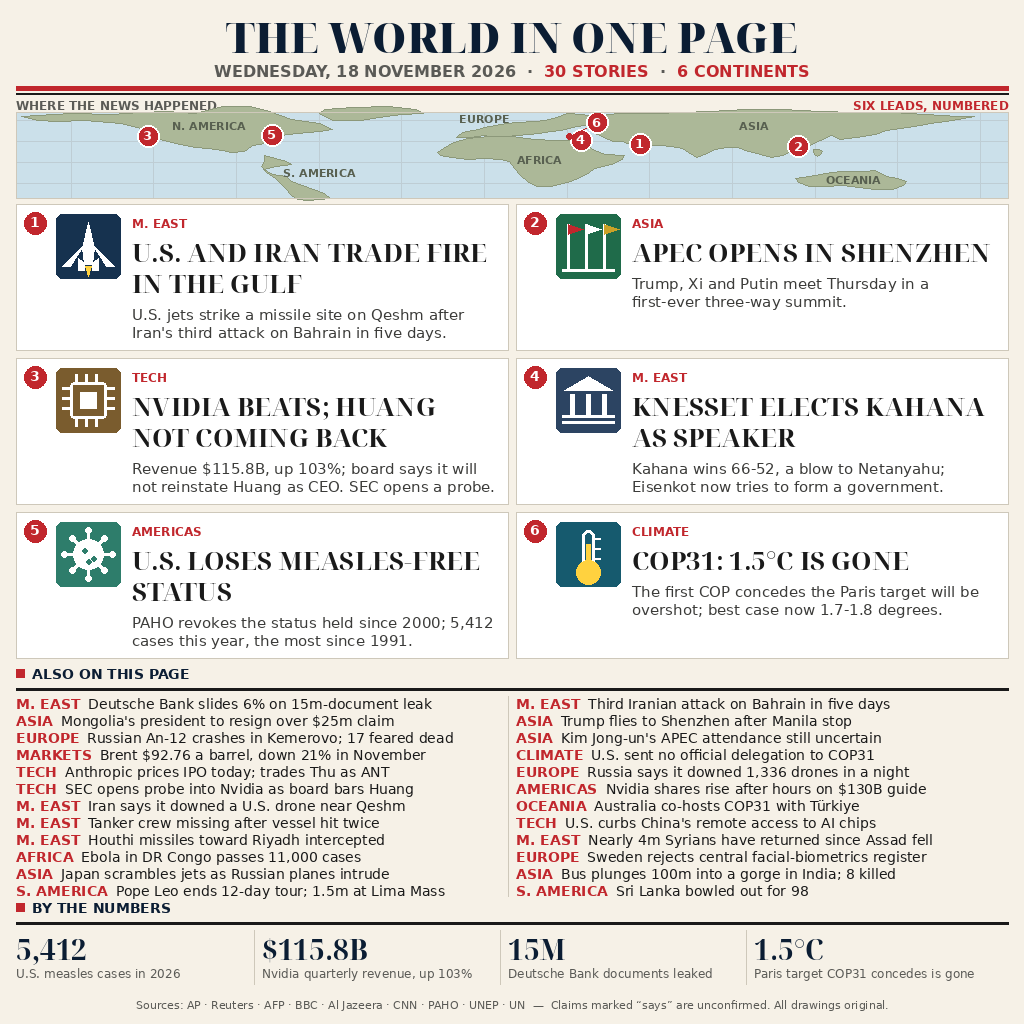
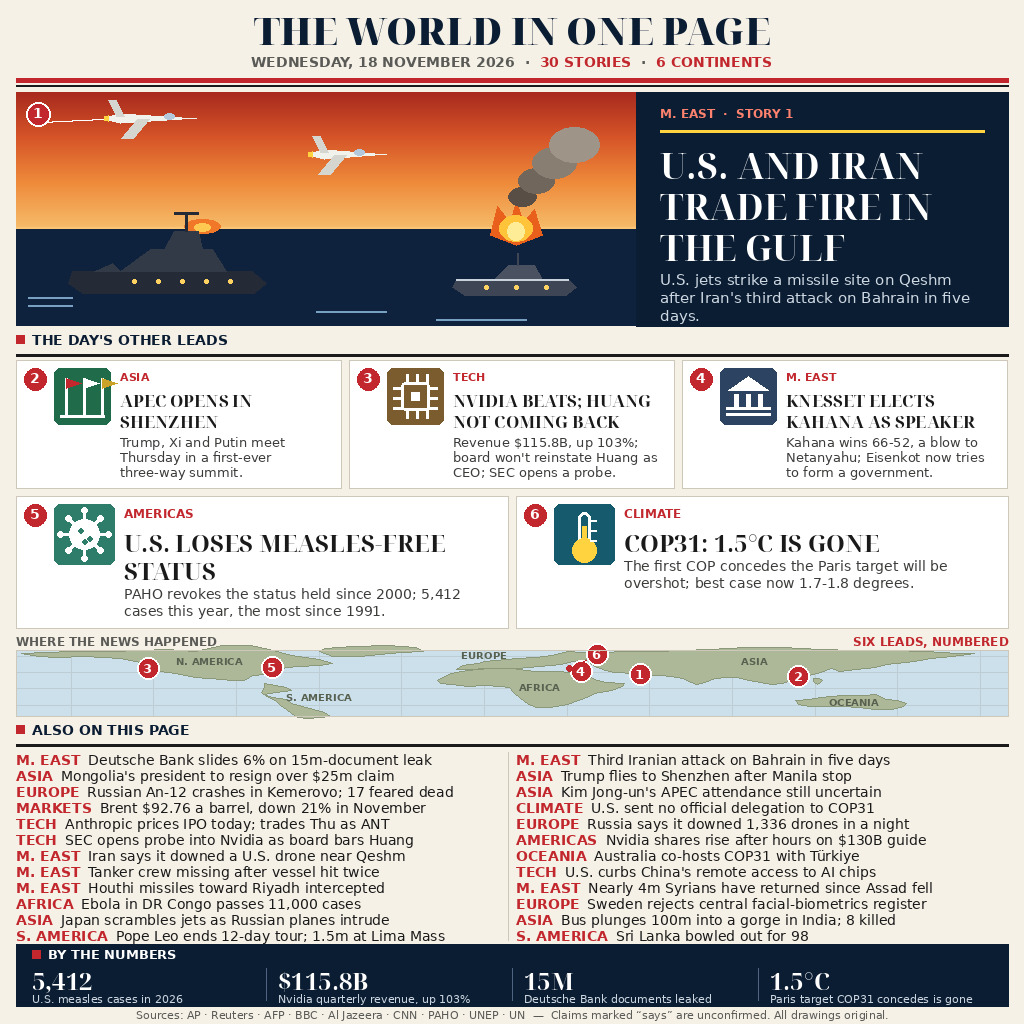
news-image 18 Nov v3: hero-led redesign — Gulf fire hero panel, 5 other leads, navy numbers band

diff --git a/compose.py b/compose.py
@@ -36,7 +36,7 @@ LAND = (172, 184, 152)
 GRAT = (190, 205, 212)
 
 MAP_X0, MAP_X1 = 16, 1008
-MAP_Y0, MAP_Y1 = 112, 198
+MAP_Y0, MAP_Y1 = 650, 716
 LON0, LON1 = -170.0, 190.0
 LAT0, LAT1 = 72.0, -50.0
 
@@ -133,16 +133,14 @@ PINS = [
     (6, 30.7, 36.9, (28, -14)),  # Antalya (COP31), offset with leader
 ]
 
-# (region, headline, summary, icon, tile colour)
+# (region, headline, summary, icon, tile colour) — the five leads BELOW the
+# hero. The #1 story (U.S.–Iran trade fire) lives in the hero panel above.
 LEADS = [
-    ("M. EAST", "U.S. AND IRAN TRADE FIRE IN THE GULF",
-     "U.S. jets strike a missile site on Qeshm after Iran's third attack on Bahrain in five days.",
-     "jets", (22, 50, 79)),
     ("ASIA", "APEC OPENS IN SHENZHEN",
      "Trump, Xi and Putin meet Thursday in a first-ever three-way summit.",
      "flags", (31, 107, 74)),
     ("TECH", "NVIDIA BEATS; HUANG NOT COMING BACK",
-     "Revenue $115.8B, up 103%; board says it will not reinstate Huang as CEO. SEC opens a probe.",
+     "Revenue $115.8B, up 103%; board won't reinstate Huang as CEO; SEC opens a probe.",
      "chip", (122, 92, 46)),
     ("M. EAST", "KNESSET ELECTS KAHANA AS SPEAKER",
      "Kahana wins 66-52, a blow to Netanyahu; Eisenkot now tries to form a government.",
@@ -281,6 +279,124 @@ ICONS = {"jets": draw_jets, "flags": draw_flags, "chip": draw_chip,
          "bank": draw_bank, "virus": draw_virus, "thermo": draw_thermo}
 
 
+# ---- Hero illustration: the Strait of Hormuz at dusk ----
+# Flat-vector scene, all PIL primitives, fully deterministic. A warship and
+# a second vessel on a dark strait, jets overhead, fire and smoke over the
+# water, a low sun. Drawn inside (hx, hy, hw, hh); sky occupies the top
+# ~58%, sea the rest.
+def _lerp(a, b, t):
+    return tuple(int(a[i] + (b[i] - a[i]) * t) for i in range(3))
+
+
+def draw_jet_h(d, x, y, s, flip=False):
+    """Fighter jet in side profile, drawn on a small layer so it can be
+    mirrored cleanly. s = length; flip = faces left."""
+    from PIL import Image
+    layer = Image.new("RGBA", (s + 24, 44), (0, 0, 0, 0))
+    ld = ImageDraw.Draw(layer)
+    w = (242, 242, 236, 255)
+    g = (214, 214, 208, 255)
+    # fuselage: long dart, nose right
+    ld.polygon([(s + 18, 22), (16, 17), (4, 20), (4, 24), (16, 27)],
+               fill=w)
+    # swept wing, down-back
+    ld.polygon([(s // 2 + 8, 23), (s // 2 - 4, 23), (s // 2 - 20, 42),
+                (s // 2 - 8, 42)], fill=g)
+    # tail fin, up-back
+    ld.polygon([(12, 20), (4, 4), (12, 4), (20, 20)], fill=g)
+    # cockpit bump
+    ld.ellipse([s - 14, 17, s - 4, 23], fill=(180, 200, 220, 255))
+    # flame at the tail
+    ld.polygon([(4, 19), (-8, 22), (4, 25)], fill=(255, 210, 63, 255))
+    if flip:
+        layer = layer.transpose(Image.FLIP_LEFT_RIGHT)
+    d._image.paste(layer, (x - 8, y - 22), layer)
+
+
+def draw_blast(d, cx, cy, r):
+    """One explosion sitting on the water: wide orange flame licks, bright
+    core, and a tall smoke column rising up-right (never a round 'sun')."""
+    # flame licks: three overlapping teardrops
+    d.polygon([(cx - r, cy), (cx - r * 0.7, cy - r * 1.1),
+               (cx - r * 0.2, cy - r * 0.5), (cx, cy - r * 1.3),
+               (cx + r * 0.3, cy - r * 0.5), (cx + r * 0.7, cy - r * 1.0),
+               (cx + r, cy), (cx, cy + r * 0.4)], fill=(232, 96, 28))
+    d.ellipse([cx - r * 0.62, cy - r * 0.75, cx + r * 0.62, cy + r * 0.25],
+              fill=(255, 196, 58))
+    d.ellipse([cx - r * 0.32, cy - r * 0.5, cx + r * 0.32, cy + r * 0.2],
+              fill=(255, 236, 150))
+    # smoke column: puffs rising up-right, darker at the base
+    puffs = [(cx + 6, cy - r - 12, 14, (88, 78, 70)),
+             (cx + 20, cy - r - 28, 18, (112, 102, 92)),
+             (cx + 38, cy - r - 46, 22, (136, 126, 114)),
+             (cx + 58, cy - r - 64, 25, (158, 148, 136))]
+    for sx, sy, sr, c in puffs:
+        d.ellipse([sx - sr, sy - sr * 0.7, sx + sr, sy + sr * 0.7], fill=c)
+
+
+def draw_hero(d, hx, hy, hw, hh):
+    horizon = hy + int(hh * 0.58)
+    # sky: crimson -> orange -> gold bands (no sun: the fire is the light)
+    stops = [(168, 42, 30), (214, 84, 40), (238, 138, 58), (246, 186, 104)]
+    sky_h = horizon - hy
+    for i in range(sky_h):
+        t = i / max(sky_h - 1, 1)
+        seg = t * (len(stops) - 1)
+        j = min(int(seg), len(stops) - 2)
+        c = _lerp(stops[j], stops[j + 1], seg - j)
+        d.line([hx, hy + i, hx + hw - 1, hy + i], fill=c)
+    # sea: dark navy with a gold band at the horizon
+    d.rectangle([hx, horizon, hx + hw - 1, hy + hh - 1], fill=(14, 34, 62))
+    d.line([hx, horizon, hx + hw - 1, horizon], fill=(250, 198, 118), width=2)
+    # jets, clear of the smoke: one top-left heading right, one mid-top
+    d.line([hx + 16, hy + 30, hx + 96, hy + 26], fill=(255, 255, 255), width=2)
+    draw_jet_h(d, hx + 96, hy + 26, 74)
+    draw_jet_h(d, hx + 300, hy + 62, 60)
+    # small fire glow on the horizon, mid-left
+    d.ellipse([hx + 168, horizon - 8, hx + 204, horizon + 6], fill=(240, 120, 40))
+    d.ellipse([hx + 178, horizon - 4, hx + 194, horizon + 4], fill=(255, 200, 80))
+    # one big explosion over the second vessel, right
+    draw_blast(d, hx + 500, horizon + 8, 26)
+    # warship, left: hull, superstructure, mast, gun, portholes, wake
+    ship = (36, 42, 54)
+    deck = (50, 58, 72)
+    d.polygon([(hx + 56, horizon + 44), (hx + 236, horizon + 44),
+               (hx + 250, horizon + 56), (hx + 238, horizon + 66),
+               (hx + 66, horizon + 66), (hx + 52, horizon + 56)], fill=ship)
+    d.polygon([(hx + 104, horizon + 44), (hx + 134, horizon + 22),
+               (hx + 196, horizon + 22), (hx + 210, horizon + 44)], fill=deck)
+    d.polygon([(hx + 148, horizon + 22), (hx + 158, horizon + 4),
+               (hx + 182, horizon + 4), (hx + 186, horizon + 22)], fill=deck)
+    d.line([hx + 170, horizon + 4, hx + 170, horizon - 14], fill=ship, width=3)
+    d.line([hx + 158, horizon - 14, hx + 182, horizon - 14], fill=ship, width=3)
+    d.polygon([(hx + 78, horizon + 44), (hx + 96, horizon + 36),
+               (hx + 104, horizon + 44)], fill=deck)
+    for px in (hx + 118, hx + 142, hx + 166, hx + 190, hx + 214):
+        d.ellipse([px - 2, horizon + 52, px + 2, horizon + 56], fill=(255, 210, 100))
+    # wake trailing behind the stern, short
+    for wy in (horizon + 70, horizon + 78):
+        d.line([hx + 12, wy, hx + 56, wy], fill=(120, 160, 195), width=2)
+    # second vessel, right, lighter so it reads on the dark sea
+    d.polygon([(hx + 440, horizon + 52), (hx + 552, horizon + 52),
+               (hx + 560, horizon + 60), (hx + 550, horizon + 68),
+               (hx + 448, horizon + 68), (hx + 436, horizon + 60)],
+              fill=(62, 70, 86))
+    d.polygon([(hx + 478, horizon + 52), (hx + 492, horizon + 38),
+               (hx + 518, horizon + 38), (hx + 526, horizon + 52)],
+              fill=(74, 82, 98))
+    d.line([hx + 502, horizon + 38, hx + 502, horizon + 26], fill=(62, 70, 86), width=2)
+    d.line([hx + 440, horizon + 52, hx + 552, horizon + 52], fill=(200, 210, 220), width=2)
+    for px in (hx + 470, hx + 500, hx + 530):
+        d.ellipse([px - 2, horizon + 58, px + 2, horizon + 62], fill=(255, 210, 100))
+    # a few short wave strokes near the hulls
+    for wx, wy, wl in ((hx + 300, horizon + 84, 70), (hx + 420, horizon + 92, 90)):
+        d.line([wx, wy, wx + wl, wy], fill=(120, 160, 195), width=2)
+    # story-1 badge, top-left of the art
+    d.ellipse([hx + 10, hy + 10, hx + 34, hy + 34], fill=RED,
+              outline=(255, 255, 255), width=2)
+    d.text((hx + 22, hy + 21), "1", font=font(BOLD, 14), fill=(255, 255, 255), anchor="mm")
+
+
 def draw_map(d):
     d.rectangle([MAP_X0, MAP_Y0, MAP_X1, MAP_Y1], fill=OCEAN)
     # graticule every 30 degrees
@@ -297,7 +413,7 @@ def draw_map(d):
     for _name, _label, poly in CONTINENTS:
         pts = [project(lo, la) for lo, la in poly]
         d.polygon(pts, fill=LAND, outline=(140, 152, 122))
-    lab_f = font(BOLD, 11)
+    lab_f = font(BOLD, 10)
     for name, (llo, lla), _poly in CONTINENTS:
         if not name or name == "GREENLAND":
             continue
@@ -316,15 +432,47 @@ def draw_map(d):
         d.text((dx, dy - 1), str(num), font=pin_f, fill=(255, 255, 255), anchor="mm")
 
 
+def draw_lead_card(d, x, y, w, h, num, region, headline, summary, icon, tile,
+                    head_size, head_lh, sum_size, sum_lh):
+    """One lead card. Headline flows first (up to 2 lines); the summary takes
+    whatever lines remain — no overflow, no clipping."""
+    d.rectangle([x, y, x + w, y + h], fill=CARD, outline=BORDER, width=1)
+    d.ellipse([x + 8, y + 8, x + 30, y + 30], fill=RED)
+    d.text((x + 19, y + 18), str(num), font=font(BOLD, 14),
+           fill=(255, 255, 255), anchor="mm")
+    ts = 56 if w < 400 else 60
+    tx, ty = x + 38, y + 8
+    d.rounded_rectangle([tx, ty, tx + ts, ty + ts], radius=6, fill=tile)
+    ICONS[icon](d, tx, ty, ts)
+    tx0 = tx + ts + 10
+    tw = w - (tx0 - x) - 10
+    d.text((tx0, y + 10), region, font=font(BOLD, 12 if w >= 400 else 11), fill=RED)
+    head_f = font(DISPB, head_size)
+    hy = y + 28 if w < 400 else y + 30
+    hlines = wrap(headline, head_f, tw)[:2]
+    for ln in hlines:
+        d.text((tx0, hy), ln, font=head_f, fill=INK)
+        hy += head_lh
+    sum_f = font(REG, sum_size)
+    sy = hy + 4
+    room = (y + h - 4 - sy) // sum_lh
+    slines = wrap(summary, sum_f, tw)[:max(room, 0)]
+    for ln in slines:
+        d.text((tx0, sy), ln, font=sum_f, fill=(60, 60, 58))
+        sy += sum_lh
+    if len(wrap(headline, head_f, tw)) > 2 or room < 1:
+        print("WARN card", num, "headline lines",
+              len(wrap(headline, head_f, tw)), "summary room", room)
+
+
 def main():
     page = Image.new("RGB", (W, H), PAPER)
     d = ImageDraw.Draw(page)
 
     # ---- Masthead ----
-    d.text((W // 2, 8), "THE WORLD IN ONE PAGE", font=font(DISPBLACK, 42),
+    d.text((W // 2, 4), "THE WORLD IN ONE PAGE", font=font(DISPBLACK, 38),
            fill=NAVY, anchor="ma")
-    # Date line: grey date, story counts picked out in red, centered as one unit.
-    date_f = font(BOLD, 16)
+    date_f = font(BOLD, 14)
     segs = [("WEDNESDAY, 18 NOVEMBER 2026  \u00b7  ", GREY),
             ("30 STORIES", RED),
             ("  \u00b7  ", GREY),
@@ -332,52 +480,55 @@ def main():
     total = sum(date_f.getlength(t) for t, _ in segs)
     sx = (W - total) // 2
     for t, c in segs:
-        d.text((sx, 62), t, font=date_f, fill=c)
+        d.text((sx, 54), t, font=date_f, fill=c)
         sx += date_f.getlength(t)
-    d.rectangle([16, 86, W - 16, 90], fill=RED)
-    d.rectangle([16, 93, W - 16, 94], fill=INK)
+    d.rectangle([16, 78, W - 16, 82], fill=RED)
+    d.rectangle([16, 85, W - 16, 86], fill=INK)
+
+    # ---- Hero: Gulf illustration + navy headline panel ----
+    HY0, HY1 = 92, 326
+    draw_hero(d, 16, HY0, 620, HY1 - HY0)
+    d.rectangle([636, HY0, 1008, HY1], fill=NAVY)
+    d.text((660, 106), "M. EAST  \u00b7  STORY 1", font=font(BOLD, 12),
+           fill=(255, 130, 110))
+    d.rectangle([660, 130, 984, 132], fill=(255, 210, 63))
+    hero_head = font(DISPB, 36)
+    hlines = wrap("U.S. AND IRAN TRADE FIRE IN THE GULF", hero_head, 324)
+    hy = 140
+    for ln in hlines:
+        d.text((660, hy), ln, font=hero_head, fill=(255, 255, 255))
+        hy += 41
+    stand_f = font(REG, 15)
+    slines = wrap("U.S. jets strike a missile site on Qeshm after Iran's "
+                  "third attack on Bahrain in five days.", stand_f, 324)
+    sy = hy + 8
+    for ln in slines:
+        d.text((660, sy), ln, font=stand_f, fill=(205, 215, 225))
+        sy += 18
+
+    # ---- The day's other leads: 3 narrow + 2 wide ----
+    ly = 332
+    d.rectangle([16, ly + 3, 24, ly + 11], fill=RED)
+    d.text((32, ly), "THE DAY'S OTHER LEADS", font=font(BOLD, 14), fill=NAVY)
+    d.rectangle([16, ly + 22, W - 16, ly + 24], fill=INK)
+    row1_y, row1_h = 360, 128
+    for i, (region, headline, summary, icon, tile) in enumerate(LEADS[:3]):
+        draw_lead_card(d, 16 + i * 333, row1_y, 325, row1_h, i + 2,
+                       region, headline, summary, icon, tile, 17, 21, 13, 15)
+    row2_y, row2_h = 496, 132
+    for j, (region, headline, summary, icon, tile) in enumerate(LEADS[3:]):
+        draw_lead_card(d, 16 + j * 500, row2_y, 492, row2_h, j + 5,
+                       region, headline, summary, icon, tile, 24, 28, 14, 17)
 
     # ---- Map strip ----
-    d.text((16, 98), "WHERE THE NEWS HAPPENED", font=font(BOLD, 12), fill=GREY)
-    d.text((W - 16, 98), "SIX LEADS, NUMBERED", font=font(BOLD, 12),
+    d.text((16, 634), "WHERE THE NEWS HAPPENED", font=font(BOLD, 12), fill=GREY)
+    d.text((W - 16, 634), "SIX LEADS, NUMBERED", font=font(BOLD, 12),
            fill=RED, anchor="ra")
     draw_map(d)
     d.rectangle([MAP_X0, MAP_Y0, MAP_X1, MAP_Y1], outline=BORDER, width=1)
 
-    # ---- Lead cards: 2 columns x 3 rows ----
-    card_w, card_h, gap = 492, 146, 8
-    y0 = 204
-    for i, (region, headline, summary, icon, tile) in enumerate(LEADS):
-        col, row = i % 2, i // 2
-        x = 16 + col * (card_w + gap)
-        y = y0 + row * (card_h + gap)
-        d.rectangle([x, y, x + card_w, y + card_h], fill=CARD, outline=BORDER, width=1)
-        # number badge
-        d.ellipse([x + 8, y + 8, x + 30, y + 30], fill=RED)
-        d.text((x + 19, y + 18), str(i + 1), font=font(BOLD, 14),
-               fill=(255, 255, 255), anchor="mm")
-        # icon tile
-        tx, ty, ts = x + 40, y + 10, 64
-        d.rounded_rectangle([tx, ty, tx + ts, ty + ts], radius=6, fill=tile)
-        ICONS[icon](d, tx, ty, ts)
-        # text block
-        tx0 = x + 116
-        d.text((tx0, y + 12), region, font=font(BOLD, 12), fill=RED)
-        head_f = font(DISPB, 26)
-        lines = wrap(headline, head_f, card_w - 116 - 12)
-        hy = y + 30
-        for ln in lines[:2]:
-            d.text((tx0, hy), ln, font=head_f, fill=INK)
-            hy += 31
-        sum_f = font(REG, 15)
-        slines = wrap(summary, sum_f, card_w - 116 - 12)
-        sy = hy + 10
-        for ln in slines[:2]:
-            d.text((tx0, sy), ln, font=sum_f, fill=(60, 60, 58))
-            sy += 18
-
     # ---- ALSO list ----
-    ay = 666
+    ay = 722
     d.rectangle([16, ay + 3, 24, ay + 11], fill=RED)
     d.text((32, ay), "ALSO ON THIS PAGE", font=font(BOLD, 14), fill=NAVY)
     d.rectangle([16, ay + 22, W - 16, ay + 24], fill=INK)
@@ -390,29 +541,25 @@ def main():
             d.text((cx, cy), tag, font=tag_f, fill=RED)
             tw = tag_f.getlength(tag) + 8
             d.text((cx + tw, cy), text, font=txt_f, fill=INK)
-            cy += 17
-    d.line([508, ly, 508, ly + 12 * 17 - 4], fill=BORDER, width=1)
+            cy += 16
+    d.line([508, ly, 508, ly + 12 * 16 - 4], fill=BORDER, width=1)
 
-    # ---- BY THE NUMBERS ----
-    ny = 900
-    d.rectangle([16, ny + 3, 24, ny + 11], fill=RED)
-    d.text((32, ny), "BY THE NUMBERS", font=font(BOLD, 14), fill=NAVY)
-    d.rectangle([16, ny + 22, W - 16, ny + 24], fill=INK)
+    # ---- BY THE NUMBERS: dark navy footer band ----
+    ny = 944
+    d.rectangle([16, ny, W - 16, 1006], fill=NAVY)
+    d.rectangle([32, ny + 6, 40, ny + 14], fill=RED)
+    d.text((48, ny + 2), "BY THE NUMBERS", font=font(BOLD, 13),
+           fill=(255, 255, 255))
     cell_w = 246
     for i, (num, label) in enumerate(NUMBERS):
-        cx = 16 + i * cell_w
+        cx = 32 + i * cell_w
         if i:
-            d.line([cx - 8, ny + 30, cx - 8, ny + 30 + 54], fill=BORDER, width=1)
-        d.text((cx, ny + 30), num, font=font(DISPB, 28), fill=NAVY)
-        lab_f = font(REG, 12)
-        llines = wrap(label, lab_f, cell_w - 8)
-        ly2 = ny + 66
-        for ln in llines[:2]:
-            d.text((cx, ly2), ln, font=lab_f, fill=GREY)
-            ly2 += 15
+            d.line([cx - 12, ny + 24, cx - 12, ny + 56], fill=(80, 100, 130), width=1)
+        d.text((cx, ny + 20), num, font=font(DISPB, 24), fill=(255, 255, 255))
+        d.text((cx, ny + 48), label, font=font(REG, 11), fill=(205, 215, 225))
 
     # ---- Source line ----
-    d.text((W // 2, 998),
+    d.text((W // 2, 1008),
            "Sources: AP \u00b7 Reuters \u00b7 AFP \u00b7 BBC \u00b7 Al Jazeera \u00b7 CNN \u00b7 PAHO \u00b7 UNEP \u00b7 UN  \u2014  "
            "Claims marked \u201csays\u201d are unconfirmed. All drawings original.",
            font=font(REG, 11), fill=GREY, anchor="ma")
